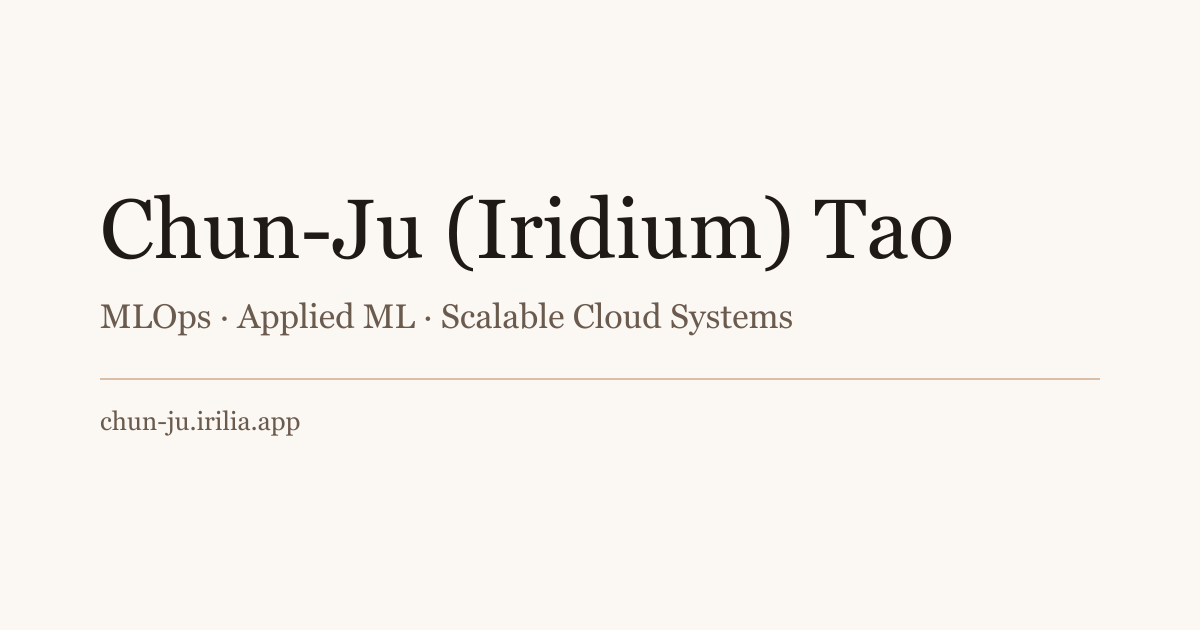
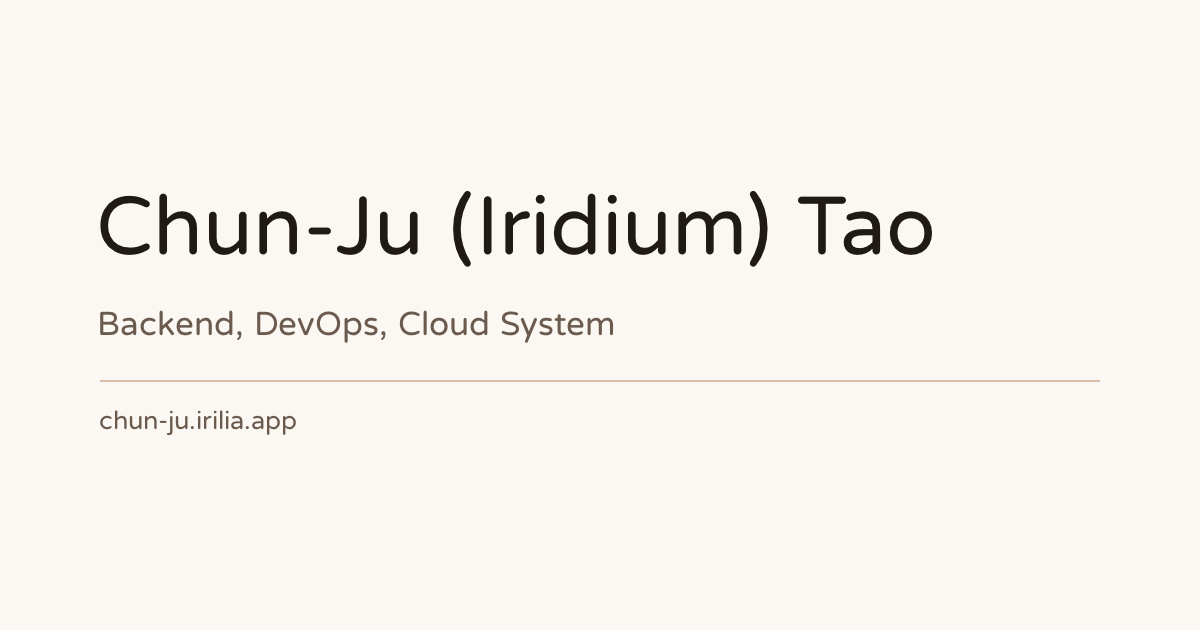
fix(va1): use Open Huninn font in OG image, update subtitle, simplify Chinese wordmark
- Render OG card text with the site's own Open Huninn font via sharp's
  Pango text API + fontfile, replacing the system serif (Georgia) fallback.
- Change subtitle from "MLOps · Applied ML · Scalable Cloud Systems"
  to "Backend, DevOps, Cloud System".
- wordmark("zh") now returns "歐東" instead of "Chun-Ju (Iridium) 歐東",
  affecting og:site_name and ProjectPage <title> on Chinese routes.

Claude-Session: https://claude.ai/code/session_0175AbuRSQ13AAUTAahE3vWs

Changed region(s): [[0.0617, 0.3016, 0.8017, 0.4222], [0.0925, 0.573, 0.8942, 0.6937], [0.0617, 0.4825, 0.6783, 0.5429]]

diff --git a/scripts/generate-og-image.ts b/scripts/generate-og-image.ts
@@ -32,60 +32,46 @@ import path from "node:path";
 import sharp from "sharp";
 import { SITE_ORIGIN } from "../lib/site.ts";
 
+// macOS + Homebrew: sharp's Pango text renderer needs fontconfig to locate
+// fonts, but Homebrew's fontconfig config file is not on the default search
+// path. Without this, Pango silently falls back to a system sans-serif.
+if (!process.env.FONTCONFIG_FILE) {
+  const brewConf = "/opt/homebrew/etc/fonts/fonts.conf";
+  if (fs.existsSync(brewConf)) process.env.FONTCONFIG_FILE = brewConf;
+}
+
 /* ── Composition constants ────────────────────────────────────────────── */
 
 const WIDTH = 1200;
 const HEIGHT = 630;
 
-// Verified against styles/globals.css, not copied from memory:
-// --color-paper (L50), --color-wood-800 (L39), --color-wood-500 (L36) and
-// --color-stone-200 (L77, annotated "hairline rules" in the source, which is
-// exactly the role it plays here).
+// Verified against styles/globals.css, not copied from memory.
 const PAPER = "#fbf7f2";
 const INK = "#1f1a15";
 const MUTED = "#6b5b4e";
 const RULE = "#dabea7";
 
-// No font file is embedded. librsvg resolves font-family through the SYSTEM, so
-// the stack has to be generic and every glyph has to be one a system serif
-// actually carries. That is also why all of this text is Latin: a CJK glyph
-// here would be a fallback lottery on whatever machine runs the script. Do NOT
-// try to embed public/fonts/open-huninn-subset.woff2 — it is CJK-scoped build
-// output and loading it through sharp is unverified.
-const SERIF = "Georgia, 'Times New Roman', serif";
-
-// The wordmark EXACTLY as the site's own chrome composes it (data.name +
-// dictionary brandSuffix — Nav.tsx, Footer.tsx, ProjectPage.tsx and now
-// lib/portfolio.ts's wordmark()). Parentheses, not quotes: the rendered site
-// says "Chun-Ju (Iridium) Tao", and a share card that disagreed with the page
-// it links to would be its own small lie. English-only by design (D-1): one
-// locale-invariant card, matching LocaleHead's English-only alt text.
 const WORDMARK = "Chun-Ju (Iridium) Tao";
-
-// The three public specialisms, as stated on the live site. U+00B7 MIDDLE DOT
-// separators; present in Georgia, and visually confirmed in the generated PNG
-// rather than assumed.
-const SPECIALISMS = "MLOps · Applied ML · Scalable Cloud Systems";
-
-// Bare host, derived from the ONE place the domain is spelled (lib/site.ts).
-// Never typed a second time.
+const SPECIALISMS = "Backend, DevOps, Cloud System";
 const HOST = new URL(SITE_ORIGIN).host;
 
-// Every line is its own absolutely-positioned <text>: librsvg does not wrap.
-// Content stays inside ~100px margins because LINE and Telegram each crop this
-// image differently — the safe area is real, not decorative.
 const MARGIN_X = 100;
+
+// Absolute path required by sharp's fontfile option.
+const FONT_FILE = path.resolve(
+  import.meta.dirname,
+  "..",
+  "assets/fonts/jf-openhuninn-2.1.ttf",
+);
 
 /* ── Render ───────────────────────────────────────────────────────────── */
 
-const svg = `<svg xmlns="http://www.w3.org/2000/svg" width="${WIDTH}" height="${HEIGHT}" viewBox="0 0 ${WIDTH} ${HEIGHT}">
-  <rect x="0" y="0" width="${WIDTH}" height="${HEIGHT}" fill="${PAPER}"/>
-  <text x="${MARGIN_X}" y="258" fill="${INK}" font-family="${SERIF}" font-size="84">${WORDMARK}</text>
-  <text x="${MARGIN_X}" y="328" fill="${MUTED}" font-family="${SERIF}" font-size="34">${SPECIALISMS}</text>
-  <rect x="${MARGIN_X}" y="378" width="${WIDTH - MARGIN_X * 2}" height="2" fill="${RULE}"/>
-  <text x="${MARGIN_X}" y="430" fill="${MUTED}" font-family="${SERIF}" font-size="26">${HOST}</text>
-</svg>
-`;
+// Hairline rule as a minimal SVG.
+const ruleSvg = Buffer.from(
+  `<svg width="${WIDTH - MARGIN_X * 2}" height="2">` +
+    `<rect width="${WIDTH - MARGIN_X * 2}" height="2" fill="${RULE}"/>` +
+    `</svg>`,
+);
 
 const outputPath = path.join(
   import.meta.dirname,
@@ -95,7 +81,62 @@ const outputPath = path.join(
   "og-default.png",
 );
 
-await sharp(Buffer.from(svg)).png({ compressionLevel: 9 }).toFile(outputPath);
+await sharp({
+  create: {
+    width: WIDTH,
+    height: HEIGHT,
+    channels: 4,
+    background: PAPER,
+  },
+})
+  .composite([
+    {
+      input: {
+        text: {
+          text: `<span foreground="${INK}" size="${84 * 1024}">${WORDMARK}</span>`,
+          font: "jf-openhuninn-2.1",
+          fontfile: FONT_FILE,
+          rgba: true,
+          dpi: 72,
+        },
+      },
+      left: MARGIN_X,
+      top: 190,
+    },
+    {
+      input: {
+        text: {
+          text: `<span foreground="${MUTED}" size="${34 * 1024}">${SPECIALISMS}</span>`,
+          font: "jf-openhuninn-2.1",
+          fontfile: FONT_FILE,
+          rgba: true,
+          dpi: 72,
+        },
+      },
+      left: MARGIN_X,
+      top: 310,
+    },
+    {
+      input: ruleSvg,
+      left: MARGIN_X,
+      top: 380,
+    },
+    {
+      input: {
+        text: {
+          text: `<span foreground="${MUTED}" size="${26 * 1024}">${HOST}</span>`,
+          font: "jf-openhuninn-2.1",
+          fontfile: FONT_FILE,
+          rgba: true,
+          dpi: 72,
+        },
+      },
+      left: MARGIN_X,
+      top: 410,
+    },
+  ])
+  .png({ compressionLevel: 9 })
+  .toFile(outputPath);
 
 const bytes = fs.statSync(outputPath).size;
 

diff --git a/lib/portfolio.ts b/lib/portfolio.ts
@@ -59,24 +59,13 @@ export function getPortfolioData(locale: Locale): PortfolioData {
 }
 
 /**
- * The site's wordmark in one locale — the content file's `name`, a space, then
- * the dictionary's `brandSuffix`. Renders "Chun-Ju (Iridium) Tao" in English
- * and "Chun-Ju (Iridium) 歐東" in Chinese.
- *
- * This is the extraction of a composition that today appears VERBATIM in five
- * places: Nav.tsx, Footer.tsx, HomePage.tsx, ResumePage.tsx and
- * ProjectPage.tsx. Only LocaleHead and ProjectPage adopt the helper in this
- * pass — the other four are a deliberate follow-up, held back because sibling
- * tasks are editing those files concurrently and a rename collision there would
- * cost more than the duplication does. The partial adoption is a scheduling
- * decision, not an oversight; finish it when those files are free.
- *
- * No new dictionary key is involved: `brandSuffix` already carries the
- * localized half of the wordmark, so this adds no string and therefore no new
- * glyph to the font subset.
+ * The site's wordmark in one locale. English renders the full romanized name
+ * plus surname ("Chun-Ju (Iridium) Tao"); Chinese renders just the Chinese
+ * name ("歐東") — the romanization is noise for a Chinese-reading audience.
  *
  * Importing `t` here is cycle-free: dictionary.ts imports only ./locale.
  */
 export function wordmark(locale: Locale): string {
+  if (locale === "zh") return t(locale).brandSuffix;
   return `${BY_LOCALE[locale].name} ${t(locale).brandSuffix}`;
 }
